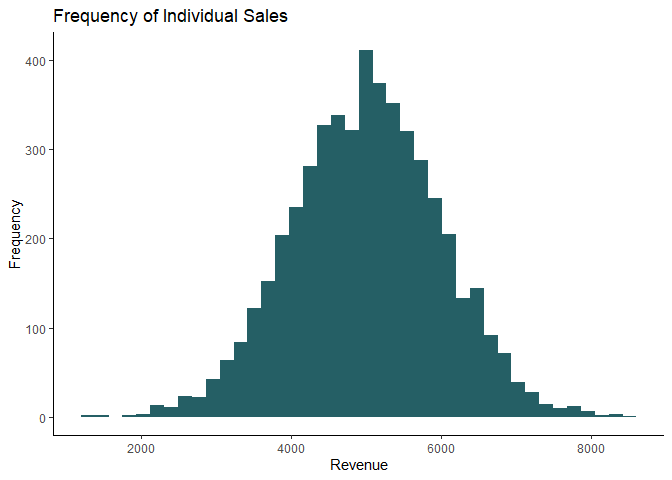
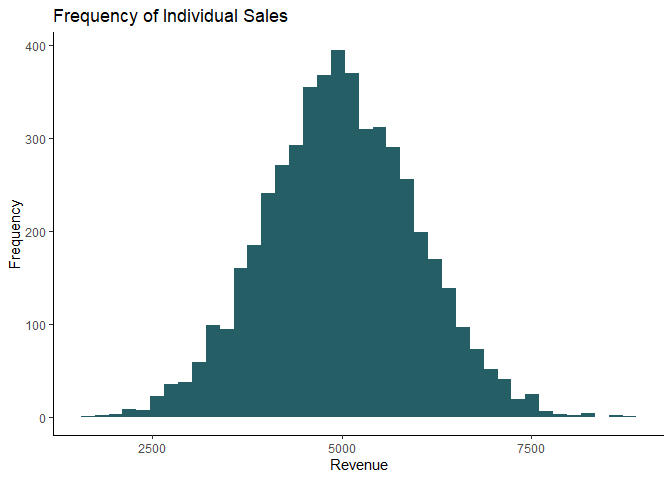
Add files via upload

diff --git a/MakeLookupData.md b/MakeLookupData.md
@@ -1,7 +1,9 @@
-Make Data for VLOOKUP
+Data for VLOOKUP (with Exploratory Data Analysis)
 ================
 
-Create random employee…
+## Make dataset
+
+Create random employees…
 
 ``` r
 options(warn=-1)
@@ -54,7 +56,9 @@ mutate(
   mutate(Commission = SaleRevenue * 0.02)
 ```
 
-Plot Distributions
+## Plot Distributions
+
+Employee and sales data…
 
 ``` r
 ggplot(Employee) +
@@ -151,7 +155,7 @@ Employee %>%
   geom_bar() +
   scale_fill_hue(direction = 1) +
   labs(y = "Revenue", title = "Sales by Region & Segment") +
-  theme_minimal() +
+  theme_classic() +
   theme(legend.position = "bottom") +
   scale_y_continuous(labels = scales::unit_format(unit = "M", scale = 1e-6))
 ```
@@ -161,7 +165,3 @@ Employee %>%
     ## `.groups` argument.
 
 ![](MakeLookupData_files/figure-gfm/unnamed-chunk-6-1.png)<!-- -->
-
-``` r
-#EmployeeID inferred join column
-```
